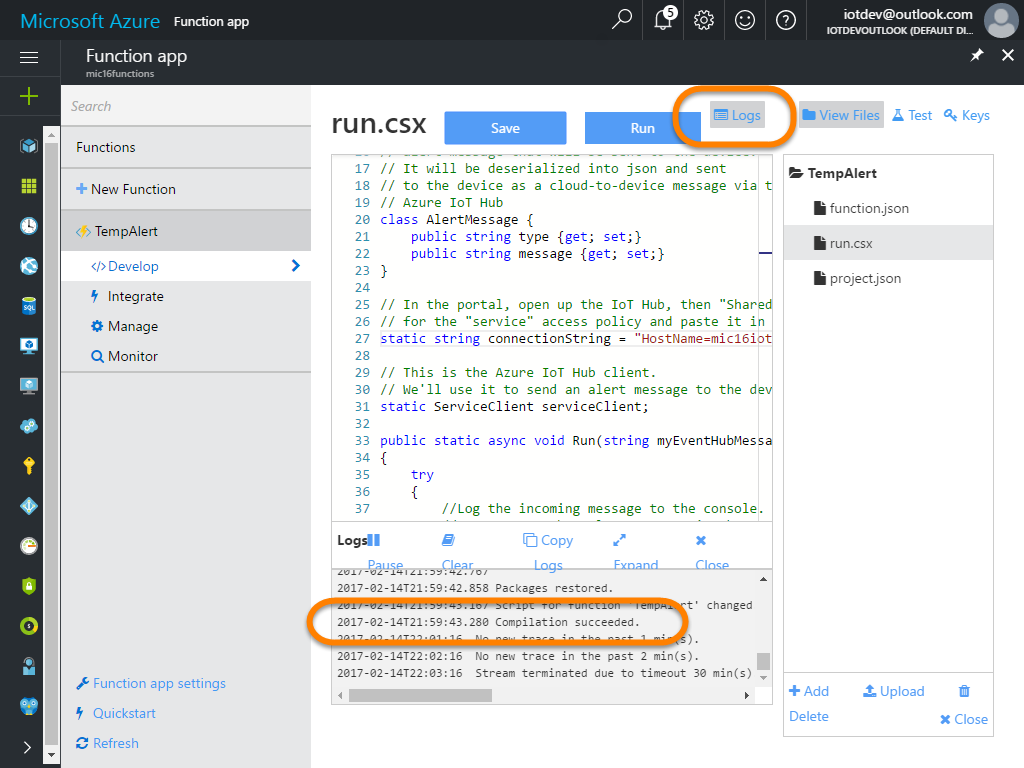
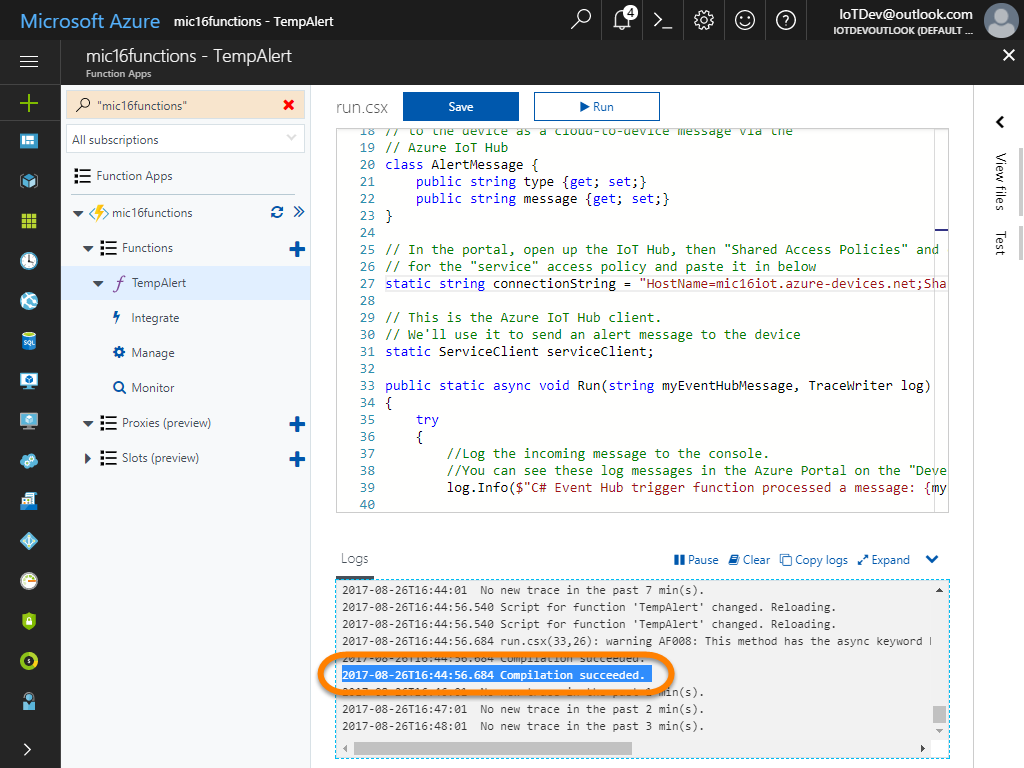
Updated through function app

diff --git a/HOLs/readme.md b/HOLs/readme.md
@@ -1375,9 +1375,7 @@ Previously, we setup our ***&lt;name&gt;job*** Stream Analytics Job to forward m
 
 In this task, we'll create the **TempAlert** function and have it receive those alert messages from the event hub, and send a temp alert message back down to the device.
 
-1. Open the **<a target="_blank" href="https://portal.azure.com/">Azure Portal</a>** (<a target="_blank" href="https://portal.azure.com/">https://portal.azure.com</a>) in the browser, and close any blades open from previous steps.  Then click "**+ New**" | "**Compute**" | "**Function App**":
-
-    > **Note**: Function apps may appear in your portal under the **Virtual Machines** category instead of **Compute**.
+1. Open the **<a target="_blank" href="https://portal.azure.com/">Azure Portal</a>** (<a target="_blank" href="https://portal.azure.com/">https://portal.azure.com</a>) in the browser, and close any blades open from previous steps.  Then click "**+ New**" | "**Compute**" | "**Function App - Create**":
 
     ![New Function App](images/12065-NewFunctionApp.png)
 
@@ -1389,11 +1387,16 @@ In this task, we'll create the **TempAlert** function and have it receive those 
     - Hosting Plan - Choose "**App Service Plan**"
     - App Service Plan - Select the ***&lt;name&gt;plan*** plan we created previously.
     - Storage Account - Select "**Create New**" and name it ***&lt;name&gt;storage***
+    - Application Insights - **Off**
     - Pin to dashboard - **Checked**
 
     ![New Function App](images/12070-NewFunctionApp.png)
 
-1. When the new Function App is deployed, and its blade open's in the portal, click the "**+New Function**" button, and select "**EventHubTrigger - C#**"
+1. When the new Function App is deployed, and its blade open's in the portal, under the "**mic16functions**" header, click the "**+**" button next to "**Functions**", then click the "**create your own custom function**" link.
+
+    ![Create a custom function](images/12075-NewCustomFunction.png)
+
+1. Scroll through the list of custom function templates and select the  "**EventHubTrigger - C#**" template.
 
     ![Event Hub Trigger C# Function](images/12080-NewCSharpEventHubTriggerFunction.png)
 
@@ -1404,14 +1407,18 @@ In this task, we'll create the **TempAlert** function and have it receive those 
 
     ![New Function Properties](images/12090-NewFunctionProperties.png)
 
-1. On the "**Service Bus connection**" blade, click "**Add a connection string**" the configure the properties on the "**Add Service Bus connection**" blade as follows and click "**OK**":
+1. In the "**Connection**" dialog, complete the options as follows, and click "**Select** to create the connection:
 
-    - Connection name - ***&lt;name&gt;ns***
-    - Connection string - Copy the value from your Event Hub for the "**Root Manage Shared Access Key SAS Policy Primary Connection String:**" from the "**[myresources.txt](./myresources.txt)**" (The connection string should start with "**`Endpoint=sb://`**" and contain "**`SharedAccessKeyName=RootManageSharedAccessKey`**") file and paste it in here.  This connection string gives your Azure Function app permissions to connect to your Service Bus Namespace, and Event Hub with all the permissions it needs.
+    - Type - **Event Hub**
+    - Namespace - ***&lt;name&gt;ns***
+    - Event Hub - ***&lt;name&gt;alerts***
+    - Policy - **RootManageSharedAccessKey**
 
     ![Event Hub Connection String](images/12100-EventHubConnection.png)
 
 1. Finally, click the "**Create**" button to create the function:
+
+    > **Note**: It named the connection you defined above "***&lt;name&gt;name*_RootManageSharedAccessKey_EVENTHUB**" not a pretty name, but it works.  This connection definition is actually saved as an "Application Setting" in the function app.  If you ever need to edit it, you can do so in your function app's "Application Settings".
 
     ![Create the Function](images/12100-CreateTheFunction.png)
 
@@ -1422,11 +1429,12 @@ In this task, we'll create the **TempAlert** function and have it receive those 
     - Event parameter name: **`myEventHubMessage`**
     - Event Hub consumer group: **$Default**
     - Event Hub name: ***`<name>alerts`***
-    - Event Hub connection: ***`<name>ns`***
+    - Event Hub connection: ***`<name>ns_RootManageSharedAccessKey_EVENTHUB`***
+    - Event hub cardinality: **Many** - This means that the function may receive multiple events when it runs.  If you need to process a single message at a time you could change that to "One".  In this case, we'll leave it at **Many**.
 
     ![Function Integration](images/12110-FunctionIntegration.png)
 
-1. Switch back to the "**Develop**" page for the function.  The code for our C# function is stored in the "**run.csx**"" file.  The default code simply logs the contents of the "myEventHubMessage" parameter value to the console.
+1. Switch back to the "**TempAlert**" page.  The code for our C# function is stored in the "**run.csx**"" file.  The default code simply logs the contents of the `myEventHubMessage` parameter value to the console.
 
     ![Default Code](images/12120-DefaultCode.png)
 
@@ -1440,6 +1448,8 @@ In this task, we'll create the **TempAlert** function and have it receive those 
 
 1. The code we pasted into "**run.csx**" depends on some libraries (like `Microsoft.Azure.Devices` and `Newtonsoft.Json` as well as others.  To make sure the the libraries are installed on the server, we need to specify them in a "**project.json**" file. To add a "**project.json**" file to our our function, click the "**View Files**"" button, then click the "**+ Add**" button, and name the new file "**project.json**" (all lower case):
 
+    ![View Files](images/12129-ViewFiles.png)
+
     ![Add project.json](images/12130-AddProjectJson.png)
 
 1. Back in Visual Studio Code, copy the contents of the "**[HOLs\FunctionApp\TempAlert\project.json](./FunctionApp/TempAlert/project.json)**" file to the clipboard:
@@ -1451,6 +1461,8 @@ In this task, we'll create the **TempAlert** function and have it receive those 
     ![Paste project.json contents](images/12134-PasteProjectJson.png)
 
 1. Next, click on each file ("**function.json**","**project.json**", and "**run.csx**") to review its contents.
+
+    > **Note**: The "**project.lock.json**" is a system generated file.  It is created when the "**project.json**" file we provided was processed by the backend deployment mechanism. You can review it if you like, but don't make any changes in it.
 
     ![Review function.json](images/12150-ReviewFunctionJson.png)
 
@@ -1472,9 +1484,15 @@ In this task, we'll create the **TempAlert** function and have it receive those 
 
     Then click the "**Save**" button to save the changes.
 
+    ![Service place holder](images/12155-ServiceStringPlaceHolder.png)
+
     ![Paste 'service' policy connection string](images/12160-PasteServiceConnectionString.png)
 
-1. In the "**Logs**" section, verify that the function compiled successfully.
+1. Click the "Up" icon in the "**Logs**" section at the bottom of the function's code window to expand the log viewer:
+
+    ![Expand Logs Viewer](images/12170-ExpandLogs.png)
+
+1. In the "**Logs**" section, scroll to the bottom and verify that the function compiled successfully.
 
     ![Successful Compilation](images/12180-CompilationSucceeded.png)
 
@@ -1502,13 +1520,13 @@ In this task, we'll create the **TempAlert** function and have it receive those 
 
     - And lastly, if you have the Buzzer plugged in, you should hear it buzz for one second each time an alert comes in!
 
-1. That's it.  Your function works.  However by default the app can be shutdown if it isn't being regularly accessed.  To keep it active:
+1. That's it.  Your function works.  However by default the app can be shutdown if it isn't being regularly accessed.  To make sure its stays active:
 
-    - Click the "**Function app settings**" link, then pick **"Go to App Service Settings**"
+    - Click the "**_&lt;name&gt;functions_**" link, and on the "**Overview**" tab, click the **"Application Settings**" link
 
         ![Function App Settings](images/12230-FunctionAppSettings.png)
 
-    - Click "**Application settings**" then turn the "**Always On**" setting to "**On**" and click the "**Save**" button along the top.
+    - Ensure that the "**Always On**" setting is set to "**On**".  If it isn't make it so, and click the "**Save**" button along the top, then close the "**Application Settings**" tab.
 
         ![Always On](images/12240-AlwaysOn.png)
 ___
